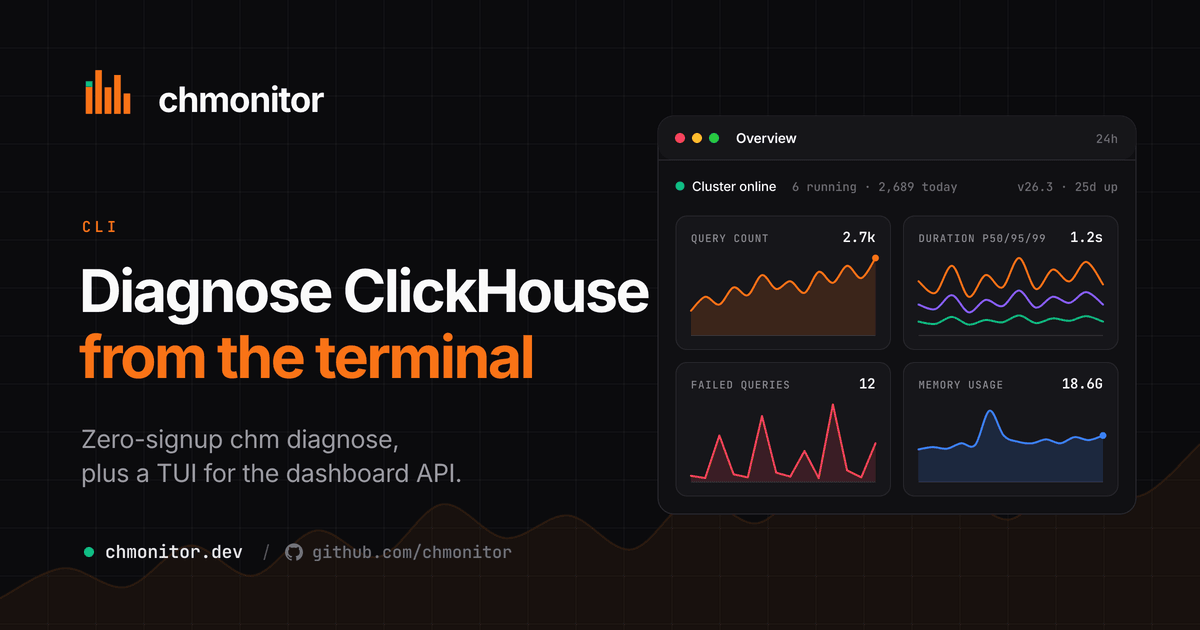
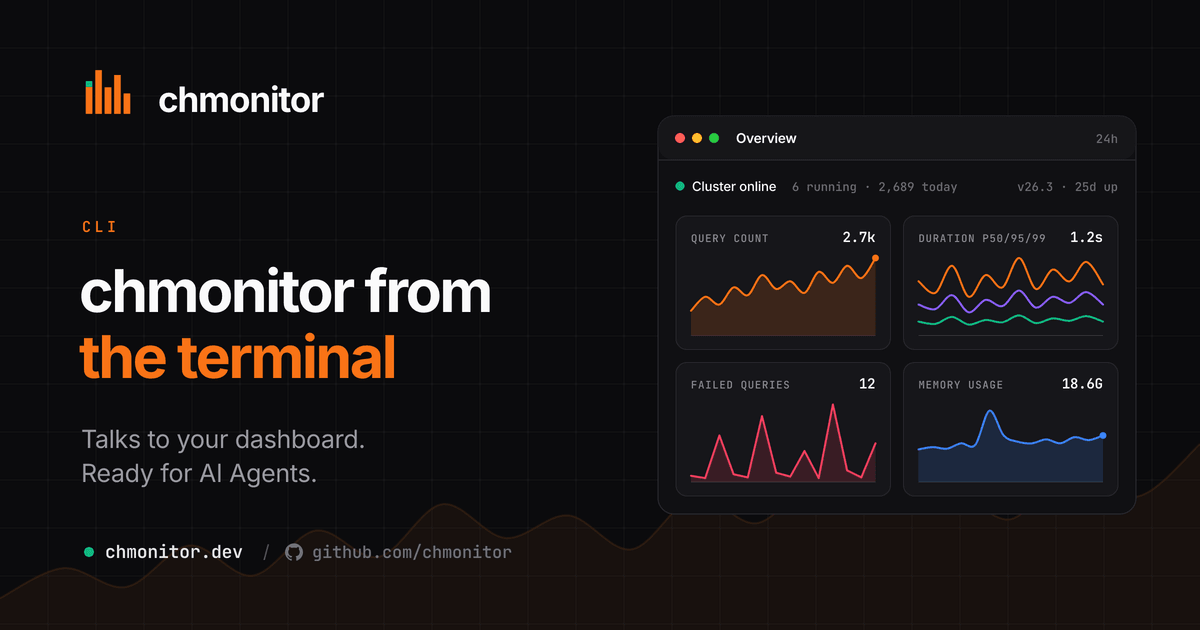
fix(landing): serve install.sh so curl -sSf works
The apex /install.sh was a 302 to GitHub raw. curl -sSf does not
follow redirects, so the documented pipe installed nothing. Copy the
script into the landing build and drop the redirect.

Also slim /cli to intro, three features, and one install command.

Changed region(s): [[0.0617, 0.4222, 0.555, 0.6032], [0.0617, 0.6635, 0.37, 0.7841], [0.555, 0.2111, 0.5858, 0.2413]]

diff --git a/apps/landing/src/data/cli.ts b/apps/landing/src/data/cli.ts
@@ -1,85 +1,28 @@
 /**
- * Copy for /cli — the marketing page for the standalone `chm` / `chmonitor`
- * binary. Command behaviour lives in rust/ch-monitor-cli and the docs page
- * at docs.chmonitor.dev/guide/guides/diagnostics-cli; this file is the
- * public pitch only.
+ * Copy for /cli — keep this page short: intro, a few features, one install.
+ * Command reference lives at docs.chmonitor.dev/guide/guides/diagnostics-cli.
  */
 
 export const CLI_INSTALL =
   'curl -sSf https://chmonitor.dev/install.sh | bash'
 
-export const CLI_INSTALL_BETA =
-  'CHM_CHANNEL=beta bash <(curl -sSf https://chmonitor.dev/install.sh)'
-
-export const CLI_CARGO = 'cargo install chmonitor'
-
 export const CLI_DOCS =
   'https://docs.chmonitor.dev/guide/guides/diagnostics-cli'
 
-export const CLI_DOCTOR = 'chm doctor --ch-host http://localhost:8123'
-
-export const commands = [
+export const features = [
   {
-    name: 'chm doctor',
-    body: 'Zero-signup health scan with --ch-host. Talks straight to ClickHouse HTTP, read-only, scored report. diagnose is an alias.',
-    icon: '<path d="M22 12h-4l-3 9L9 3l-3 9H2"/>',
-  },
-  {
-    name: 'chm tui',
-    body: 'Live multi-pane terminal UI for hosts, a chart sparkline, and a table.',
+    title: 'Your dashboard',
+    body: 'Talks to dash.chmonitor.dev by default. Point --base-url or CHM_BASE_URL at a self-hosted instance.',
     icon: '<rect width="7" height="9" x="3" y="3" rx="1"/><rect width="7" height="5" x="14" y="3" rx="1"/><rect width="7" height="9" x="14" y="12" rx="1"/><rect width="7" height="5" x="3" y="16" rx="1"/>',
   },
   {
-    name: 'chm chart',
-    body: 'Pull a named dashboard chart, with a braille sparkline plus min / max / avg.',
-    icon: '<path d="M3 3v18h18"/><path d="m19 9-5 5-4-4-3 3"/>',
-  },
-  {
-    name: 'chm table',
-    body: 'Fetch a named table (running queries, merges, …). --explain prints columns and SQL.',
-    icon: '<path d="M12 3v18"/><rect width="18" height="18" x="3" y="3" rx="2"/><path d="M3 9h18"/><path d="M3 15h18"/>',
-  },
-  {
-    name: 'chm hosts',
-    body: 'List the hosts the dashboard knows about.',
-    icon: '<rect width="20" height="8" x="2" y="2" rx="2" ry="2"/><rect width="20" height="8" x="2" y="14" rx="2" ry="2"/><line x1="6" x2="6.01" y1="6" y2="6"/><line x1="6" x2="6.01" y1="18" y2="18"/>',
-  },
-  {
-    name: 'chm auth login',
-    body: 'Auto-detect none, device login, or API key from GET /api/v1/auth/cli.',
-    icon: '<path d="M21 2l-2 2m-7.61 7.61a5.5 5.5 0 1 1-7.778 7.778 5.5 5.5 0 0 1 7.777-7.777zm0 0L15.5 7.5m0 0 3 3L22 7l-3-3m-3.5 3.5L19 4"/>',
-  },
-  {
-    name: 'chm agent',
-    body: 'Stream the dashboard AI agent from the terminal. chat is an alias.',
+    title: 'Ready for AI agents',
+    body: 'chm agent streams the dashboard agent from the terminal. MCP is on the dashboard.',
     icon: '<path d="M9.937 15.5A2 2 0 0 0 8.5 14.063l-6.135-1.582a.5.5 0 0 1 0-.962L8.5 9.936A2 2 0 0 0 9.937 8.5l1.582-6.135a.5.5 0 0 1 .963 0L14.063 8.5A2 2 0 0 0 15.5 9.937l6.135 1.581a.5.5 0 0 1 0 .964L15.5 14.063a2 2 0 0 0-1.437 1.437l-1.582 6.135a.5.5 0 0 1-.963 0z"/>',
   },
   {
-    name: 'chm upgrade',
-    body: 'Self-update from GitHub Releases. update is the same command. Never sudo.',
-    icon: '<path d="M21 15v4a2 2 0 0 1-2 2H5a2 2 0 0 1-2-2v-4"/><polyline points="7 10 12 15 17 10"/><line x1="12" x2="12" y1="15" y2="3"/>',
-  },
-] as const
-
-export const faqs = [
-  {
-    q: 'Do I need a chmonitor account?',
-    a: 'Not for <code>chm doctor --ch-host</code> (alias <code>chm diagnose</code>). That command connects straight to a ClickHouse HTTP interface and prints a scored, read-only report. The other commands (<code>hosts</code>, <code>chart</code>, <code>table</code>, <code>tui</code>, <code>agent</code>) talk to a running dashboard API — Cloud at dash.chmonitor.dev by default, or your self-hosted instance via <code>--base-url</code>. Without a host, <code>chm doctor</code> checks CLI + dashboard connectivity.',
-  },
-  {
-    q: 'Which platforms have prebuilt binaries?',
-    a: 'Linux and macOS, both x86_64 and aarch64. There is no Windows release asset — use <code>cargo install chmonitor</code> on unsupported targets. The installer never invokes sudo; default prefix is <code>$HOME/.local/bin</code>.',
-  },
-  {
-    q: 'How do I point it at a self-hosted dashboard?',
-    a: '<code>chm --base-url https://your-dashboard.example auth login</code>, or set <code>CHM_BASE_URL</code> / a <code>chm.toml</code>. Auth auto-detects open API, device login, or an API key from <code>GET /api/v1/auth/cli</code>.',
-  },
-  {
-    q: 'Stable or beta?',
-    a: 'Stable is the default: latest non-prerelease <code>chm-v*</code> tag. Set <code>CHM_CHANNEL=beta</code> (installer, <code>chm upgrade</code>, or config) to prefer prereleases.',
-  },
-  {
-    q: 'Does the CLI send telemetry?',
-    a: 'A best-effort anonymous ping (install id, version, command name, OS/arch) to telemetry.chmonitor.dev. No cluster host, query text, arguments, paths, or IPs. Opt out with <code>CHM_TELEMETRY=off</code> or <code>DO_NOT_TRACK=1</code>.',
+    title: 'Interactive TUI',
+    body: 'chm tui is a live terminal UI for hosts, charts, and running queries.',
+    icon: '<polyline points="4 17 10 11 4 5"/><line x1="12" x2="20" y1="19" y2="19"/>',
   },
 ] as const

diff --git a/apps/landing/src/cli.test.ts b/apps/landing/src/cli.test.ts
@@ -10,40 +10,48 @@ const data = read('src/data/cli.ts')
 const nav = read('src/components/Nav.astro')
 const footer = read('src/components/Footer.astro')
 const og = read('scripts/build-og.ts')
-const analytics = read('src/lib/analytics.ts')
-const base = read('src/layouts/Base.astro')
+const redirects = read('public/_redirects')
+const pkg = read('package.json')
 
 describe('/cli landing page', () => {
-  test('page and copy exist', () => {
-    expect(existsSync(join(landing, 'src/pages/cli.astro'))).toBe(true)
-    expect(page).toContain("image=\"/og/og-cli.png\"")
-    expect(page).toContain('chm doctor')
+  test('intro, features, and one install command', () => {
+    expect(page).toContain('chmonitor from the terminal')
+    expect(page).toContain(
+      'chmonitor talks straight to your chmonitor dashboard. Ready for AI Agents.'
+    )
+    expect(page).toContain('id="install"')
+    expect(page).toContain('{CLI_INSTALL}')
     expect(data).toContain('curl -sSf https://chmonitor.dev/install.sh | bash')
-    expect(data).toContain('cargo install chmonitor')
-    expect(data).toContain('chm doctor --ch-host')
-    expect(data).toContain('chm diagnose')
+    expect(data).toContain("title: 'Your dashboard'")
+    expect(data).toContain("title: 'Ready for AI agents'")
+    expect(data).toContain("title: 'Interactive TUI'")
   })
 
-  test('install uses the landing installer, not a raw GitHub URL', () => {
-    expect(data).toContain('https://chmonitor.dev/install.sh')
+  test('does not advertise beta, cargo, or a GitHub raw installer', () => {
+    expect(page).not.toContain('CLI_INSTALL_BETA')
+    expect(page).not.toContain('CLI_CARGO')
+    expect(data).not.toContain('CHM_CHANNEL=beta')
+    expect(data).not.toContain('cargo install')
     expect(data).not.toContain('raw.githubusercontent.com')
+    expect(redirects).not.toContain('/install.sh')
+  })
+
+  test('build copies scripts/install.sh so curl -sSf gets a 200 body', () => {
+    expect(pkg).toContain('sync-landing-install.mjs')
+    expect(existsSync(join(landing, '../../scripts/sync-landing-install.mjs'))).toBe(
+      true
+    )
+    expect(existsSync(join(landing, '../../scripts/install.sh'))).toBe(true)
   })
 
   test('nav Features menu and footer link to /cli', () => {
     expect(nav).toContain("to('/cli')")
-    expect(nav).toContain('featureIcons.cli')
     expect(footer).toContain('href="/cli"')
   })
 
-  test('OG card and analytics event are wired', () => {
+  test('OG card is wired', () => {
+    expect(page).toContain("image=\"/og/og-cli.png\"")
     expect(og).toContain("file: 'og-cli.png'")
-    expect(analytics).toContain("'cli_view'")
-    expect(base).toContain("path === '/cli'")
-    expect(base).toContain("trackEvent('cli_view')")
-  })
-
-  test('terminal copy is not gated on the homepage deploy section', () => {
-    expect(base).toContain("document.querySelectorAll('.terminal .copy')")
-    expect(base).not.toContain('section.querySelectorAll(\'.terminal .copy\')')
+    expect(og).toContain('chmonitor from')
   })
 })

diff --git a/apps/landing/scripts/verify-landing-structure.ts b/apps/landing/scripts/verify-landing-structure.ts
@@ -254,11 +254,42 @@ const distCli = join(process.cwd(), 'dist/cli/index.html')
 try {
   const cliHtml = readFileSync(distCli, 'utf8')
   const requiredCli = [
+    'chmonitor from the terminal',
     'chmonitor.dev/install.sh',
-    'chm doctor',
     'id="install"',
     '/og/og-cli.png',
   ] as const
+  if (cliHtml.includes('CHM_CHANNEL=beta') || cliHtml.includes('cargo install chmonitor')) {
+    console.error('FORBIDDEN beta/cargo install on /cli')
+    failed = true
+  } else {
+    console.log('OK: /cli has no beta or cargo install')
+  }
+  const distInstall = join(process.cwd(), 'dist/install.sh')
+  try {
+    const installSh = readFileSync(distInstall, 'utf8')
+    if (!installSh.startsWith('#!/usr/bin/env bash')) {
+      console.error('MISSING shebang in dist/install.sh')
+      failed = true
+    } else {
+      console.log('OK: dist/install.sh is the CLI installer')
+    }
+  } catch {
+    console.error('MISSING dist/install.sh — landing must copy scripts/install.sh')
+    failed = true
+  }
+  const distRedirects = join(process.cwd(), 'dist/_redirects')
+  try {
+    const redir = readFileSync(distRedirects, 'utf8')
+    if (/^\/install\.sh\b/m.test(redir)) {
+      console.error('FORBIDDEN /install.sh redirect — curl -sSf cannot follow 302')
+      failed = true
+    } else {
+      console.log('OK: no /install.sh redirect')
+    }
+  } catch {
+    console.log('OK: no dist/_redirects (or missing is fine)')
+  }
   for (const marker of requiredCli) {
     if (!cliHtml.includes(marker)) {
       console.error(`MISSING on /cli: ${marker}`)

diff --git a/apps/landing/scripts/build-og.ts b/apps/landing/scripts/build-og.ts
@@ -435,10 +435,10 @@ const PAGES: { file: string; copy: Copy }[] = [
     file: 'og-cli.png',
     copy: {
       eyebrow: 'CLI',
-      h1Line1: 'Diagnose ClickHouse',
-      h1Line2: 'from the terminal',
-      sub1: 'Zero-signup chm doctor,',
-      sub2: 'plus a TUI for the dashboard API.',
+      h1Line1: 'chmonitor from',
+      h1Line2: 'the terminal',
+      sub1: 'Talks to your dashboard.',
+      sub2: 'Ready for AI Agents.',
     },
   },
   {
